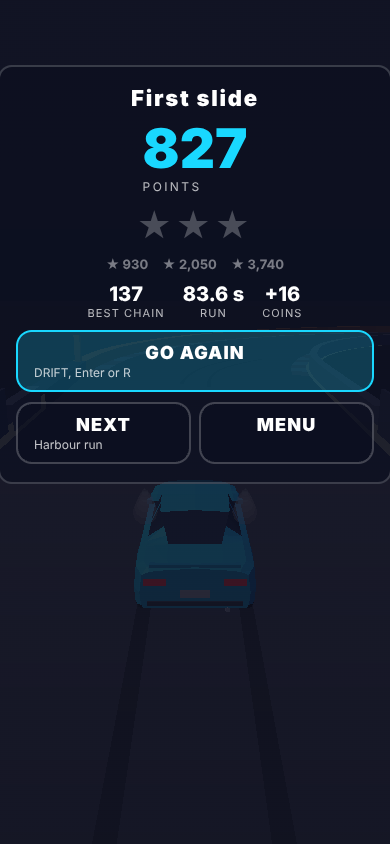
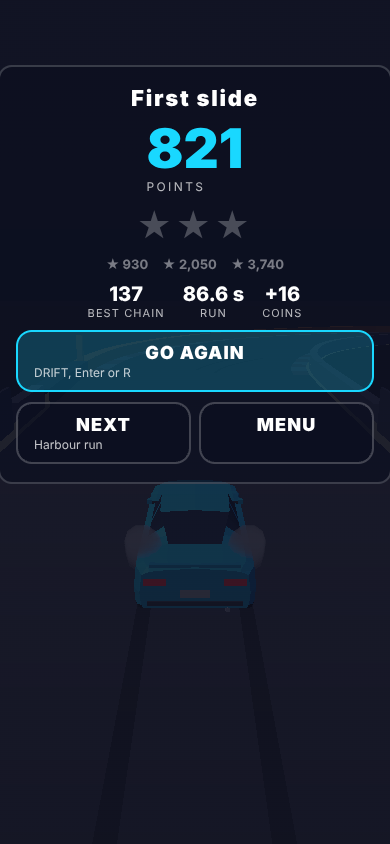
crazygames loop: a ghost screenshot, the report's screenshot notes

Changed region(s): [[0.3692, 0.154, 0.6462, 0.2464], [0.7077, 0.3389, 0.7385, 0.3697], [0.4923, 0.3389, 0.5231, 0.3697]]

diff --git a/crazygames/game/test/loop/probes.js b/crazygames/game/test/loop/probes.js
@@ -292,6 +292,15 @@ if (run('shots')) {
       for (let k = 0; k < 40 && !best; k++) { const fr = await L.runFrames(side.page, 30, L.COLLECT); for (const f of fr) if (f.angle > 28 && f.v > 12 && f.state === 'drive') { best = f; break; } }
     });
     await shot('results', async () => { await L.driveToResults(side.page, RUN_BUDGET); });
+    await shot('ghost', async () => {
+      // the car held on the line (DRIFT, no steering) while the ghost drives away
+      await L.beginRun(side.page, 'again', null, null);
+      await side.page.evaluate(() => { window.__feel.setDriver(null); window.__feel.inject = { steer: 0, throttle: 1, brake: 0, handbrake: 0 }; });
+      await L.runFrames(side.page, 150);
+      await side.page.evaluate(() => { window.__feel.inject = { steer: 0, throttle: 0, brake: 0, handbrake: 1 }; });
+      await L.runFrames(side.page, 240);
+      await side.page.evaluate(() => { window.__feel.inject = null; });
+    });
     await shot('free', async () => {
       await side.page.evaluate(() => { window.__loop.action('free'); window.__feel.draw = false; window.__clock = 1000; window.__feel.inject = { steer: 0, throttle: 1, brake: 0, handbrake: 0 }; });
       await L.runFrames(side.page, 150);

diff --git a/crazygames/review/loop/REPORT.md b/crazygames/review/loop/REPORT.md
@@ -212,11 +212,18 @@ to 23.7 ms, the verdict flips. CAUGHT.
 
 ## Screenshots
 
-`shots/` holds every screen in 1280x720, 390x844 and 844x390: `title`,
-`career`, `garage` (the tourer picked, not owned), `countdown`, `drive`
-(mid drift on career 1 with the ghost, the chain by the car, the lap and
-the clock, the best to beat), `results` and `free` (a handbrake turn in
-the car park with the touch pad showing).
+`shots/` holds every screen in 1280x720, 390x844 and 844x390, written
+by the probe: `title`, `career`, `garage` (the tourer picked, not
+owned), `countdown` (the car held under the gantry, the 2), `drive` (mid
+drift on career 1, the chain by the car, the lap and the clock, the best
+to beat), `results`, `ghost` (the car held with DRIFT while the saved
+ghost, a pale see through car, drives on ahead: by the orange wall in
+`ghost-1280x720.png`, already round the corner in the narrower portrait
+view) and `free` (a
+handbrake turn in the car park with the touch pad showing in the phone
+viewports). The first drive shots had the ghost hidden inside the car:
+the probe replays the same deterministic driver, so the ghost sat
+exactly where the car was, which is the ghost working.
 
 ## Not done, and deviations from the brief
 
